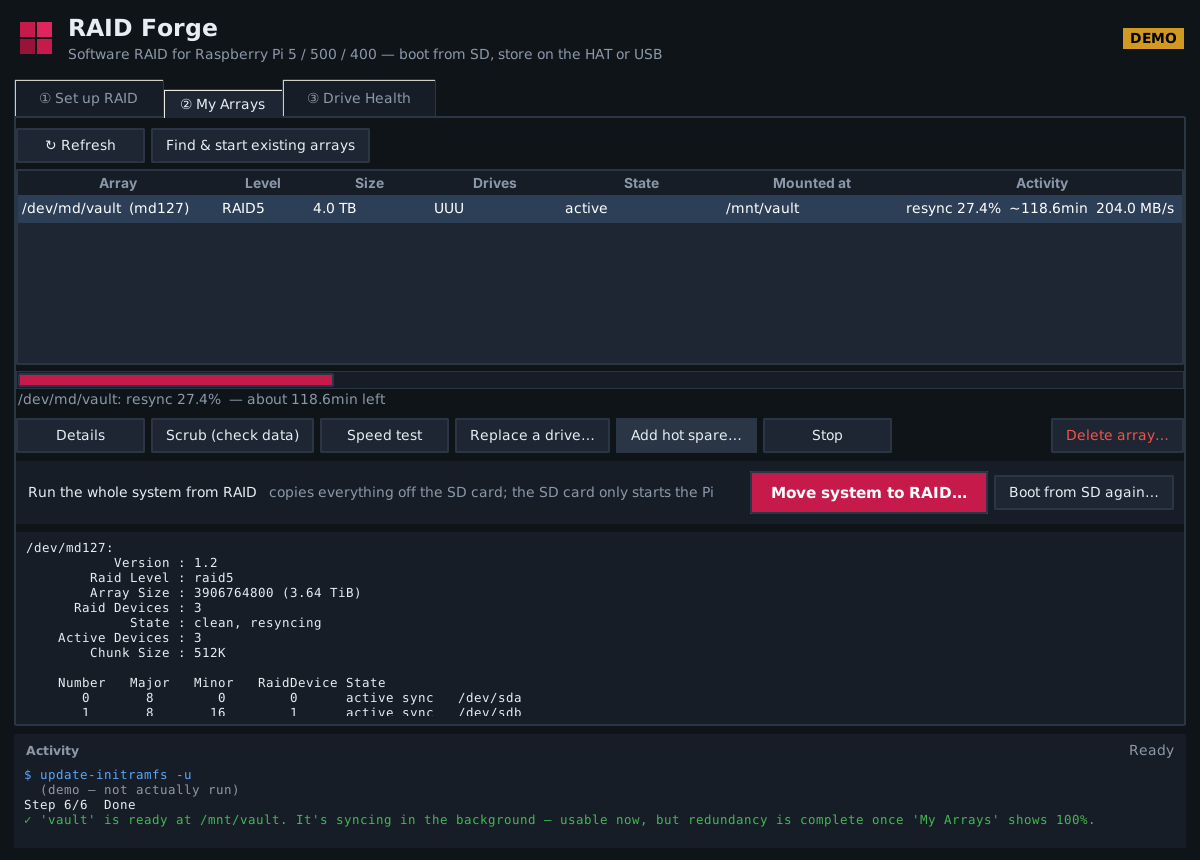
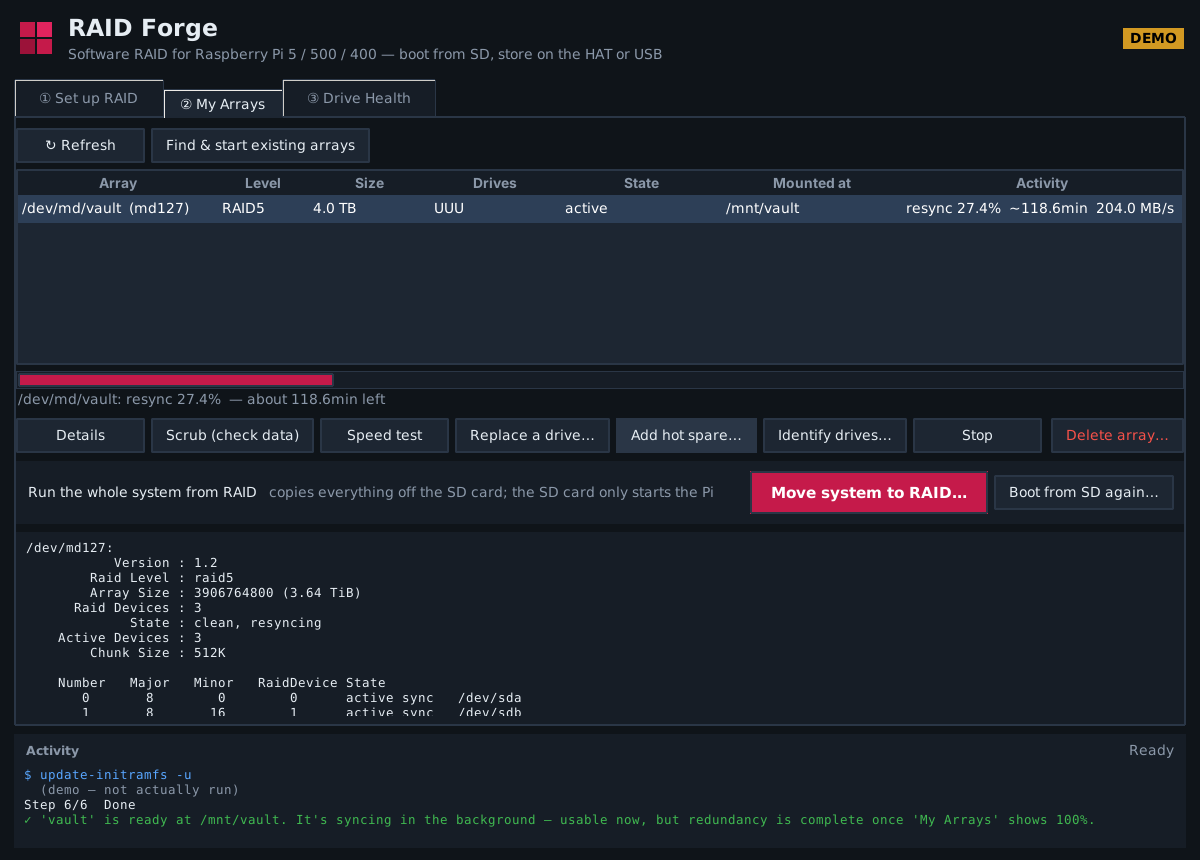
RAID Forge 1.3: Identify drives by blinking their activity light, with port + serial
- Read-burst blinker (O_DIRECT random reads, read-only), 1s/1s or 2s/2s when an array is busy
- Port descriptions: USB 3/2 bus/port/hub/dock slot, SATA port, NVMe PCIe address
- Blink buttons in Set up, My Arrays (one drive or 'find the failed drive'), Drive Health
- Replace a drive offers to blink the other drives first
- README + guide sections, screenshots

Claude-Session: https://claude.ai/code/session_013eymtRZWHTpyK22CNk1Fbr

Changed region(s): [[0.6475, 0.4837, 0.8942, 0.5442]]

diff --git a/raidforge.py b/raidforge.py
@@ -23,7 +23,7 @@ import tkinter as tk
 from tkinter import messagebox, simpledialog, ttk
 
 APP = "RAID Forge"
-VERSION = "1.2"
+VERSION = "1.3"
 DEMO = "--demo" in sys.argv or os.environ.get("RAIDFORGE_DEMO") == "1"
 USER = os.environ.get("SUDO_USER") or getpass.getuser()
 
@@ -104,6 +104,59 @@ def lockstep_warnings(arrays, wear):
                 out.append(f"{a['name']}: {d1} ({w1}%) and {d2} ({w2}%) are wearing in step. Consider replacing "
                            f"one early (My Arrays > Replace a drive) so they don't wear out together.")
     return out
+
+
+# Runs as admin for one "on" burst: keeps reading 1 MB at random spots (bypassing caches) until the time is up,
+# so the drive's activity light stays lit for the whole burst. Read-only.
+BLINK_READER = r'''
+import os, sys, time, random, mmap
+dev, secs, size = sys.argv[1], float(sys.argv[2]), int(sys.argv[3] or 0)
+B = 1 << 20
+try:
+    fd = os.open(dev, os.O_RDONLY | getattr(os, "O_DIRECT", 0))
+except OSError:
+    fd = os.open(dev, os.O_RDONLY)
+if size <= 0:
+    size = os.lseek(fd, 0, os.SEEK_END)
+blocks = max(size // B - 1, 1)
+buf = mmap.mmap(-1, B)
+end = time.monotonic() + secs
+while time.monotonic() < end:
+    try:
+        os.preadv(fd, [buf], random.randrange(blocks) * B)
+    except OSError:
+        time.sleep(0.01)
+os.close(fd)
+'''
+
+
+def describe_location(syspath, read_text):
+    """Turn /sys/block/<disk>'s real path into words: 'USB 3 (blue port) · bus 4, port 1 · hub port 2'."""
+    parts = []
+    usb = [s for s in syspath.split("/") if re.fullmatch(r"\d+-[\d.]+", s)]
+    if usb:
+        seg = usb[-1]
+        bus, port = seg.split("-", 1)
+        speed = read_text(f"/sys/bus/usb/devices/{seg}/speed", "").strip()
+        kind = ("USB 3 (blue port)" if speed.isdigit() and int(speed) >= 5000 else
+                "USB 2 (black port)" if speed in ("480", "12", "1.5") else "USB")
+        top, *hub = port.split(".")
+        parts += [kind, f"bus {bus}, port {top}"]
+        if hub:
+            parts.append(f"hub port {hub[-1]}")
+        lun = re.search(r"/\d+:\d+:\d+:(\d+)/block/", syspath)
+        if lun and int(lun.group(1)) > 0:
+            parts.append(f"dock slot {int(lun.group(1)) + 1}")
+        return " · ".join(parts)
+    m = re.search(r"/ata(\d+)/", syspath)
+    if m:
+        return f"SATA port {m.group(1)}"
+    m = re.search(r"/([0-9a-f]{4}:[0-9a-f]{2}:[0-9a-f]{2}\.\d)/nvme/", syspath)
+    if m:
+        return f"NVMe, PCIe address {m.group(1)[5:]}"
+    if "mmc" in syspath:
+        return "SD card slot"
+    return ""
 
 
 TRIM_OVERRIDE = "/etc/systemd/system/fstrim.timer.d/raidforge.conf"
@@ -424,6 +477,45 @@ class System:
             return "/mnt/vault"
         rc, out = self.run(["findmnt", "-no", "TARGET", "-S", dev], quiet=True)
         return out.strip().splitlines()[0] if out.strip() else ""
+
+    # ---- finding a physical drive
+    def location(self, name):
+        """Where a disk is plugged in, in plain words (USB port + speed, SATA port, PCIe slot)."""
+        if DEMO:
+            return {"sda": "USB 3 (blue port) · bus 2, port 1 · dock slot 1",
+                    "sdb": "USB 3 (blue port) · bus 2, port 1 · dock slot 2",
+                    "sdc": "USB 3 (blue port) · bus 4, port 1 · dock slot 1",
+                    "sdd": "USB 3 (blue port) · bus 4, port 1 · dock slot 2",
+                    "sde": "USB 2 (black port) · bus 1, port 2"}.get(name, "")
+        return describe_location(os.path.realpath(f"/sys/block/{name}"), self.read_text)
+
+    def can_blink(self):
+        return DEMO or os.geteuid() == 0 or self.priv_prefix()[:1] == ["sudo"]
+
+    def blink(self, disks, stop, on_s=1.0, off_s=1.0, on_phase=None):
+        """Read from each disk in an on/off rhythm so its activity light blinks. Read-only, safe on live arrays.
+        disks: [{"path":..., "size":...}]. stop: threading.Event. on_phase(True/False) is called each change."""
+        while not stop.is_set():
+            if on_phase:
+                on_phase(True)
+            procs = []
+            if not DEMO:
+                for d in disks:
+                    cmd = self.priv_prefix() + [sys.executable, "-c", BLINK_READER, d["path"], str(on_s),
+                                                str(int(d.get("size") or 0))]
+                    try:
+                        procs.append(subprocess.Popen(cmd, stdout=subprocess.DEVNULL, stderr=subprocess.DEVNULL))
+                    except OSError:
+                        pass
+            stop.wait(on_s)
+            for p in procs:
+                try:
+                    p.wait(timeout=2)
+                except subprocess.TimeoutExpired:
+                    p.kill()
+            if on_phase:
+                on_phase(False)
+            stop.wait(off_s)
 
 
 # ================================================================= GUI
@@ -778,6 +870,9 @@ class App(tk.Tk):
             if d.get("serial"):
                 sub += f"  ·  {d['serial']}"
             tk.Label(info, text=sub, bg=CARD, fg=MUTED, font=("DejaVu Sans", 8)).pack(anchor="w")
+            if d["tran"] != "mmc":
+                ttk.Button(row, text="Blink", width=6,
+                           command=lambda n=d["name"]: self.identify([n])).pack(side="right", padx=(0, 8))
             if busy:
                 tk.Label(row, text=d["busy"], bg=CARD, fg=WARN, font=("DejaVu Sans", 8)).pack(side="right", padx=8)
             self.disk_vars[d["path"]], self.spare_vars[d["path"]] = v, sv
@@ -1090,7 +1185,8 @@ class App(tk.Tk):
         acts.pack(fill="x", pady=8)
         for t, fn in (("Details", self.show_detail), ("Scrub (check data)", self.scrub),
                       ("Speed test", self.speed_test), ("Replace a drive…", self.replace_drive),
-                      ("Add hot spare…", self.add_spare), ("Stop", self.stop_array)):
+                      ("Add hot spare…", self.add_spare), ("Identify drives…", self.identify_member),
+                      ("Stop", self.stop_array)):
             ttk.Button(acts, text=t, command=fn).pack(side="left", padx=(0, 6))
         ttk.Button(acts, text="Delete array…", style="Danger.TButton", command=self.delete_array).pack(side="right")
 
@@ -1255,6 +1351,14 @@ class App(tk.Tk):
                                                "(Pick the failed one — it'll be marked failed and removed.)", outgoing)
         if not old:
             return
+        if messagebox.askyesno(APP, f"Want help finding {old} first?\n\nRAID Forge can blink the other drives in the "
+                                    "array. The one whose light stays dark is the one to pull."):
+            others = [disk_of(d) for d, s in a["devices"] if f"/dev/{d}" != old and s != "failed"]
+            w = self.identify(others, f"Find {old}", note=(
+                f"The other drives blink together in time with the dot. {old} is the one that stays dark. "
+                "Match its port and serial too. Press Stop when you've found it."), target=[os.path.basename(old)])
+            if isinstance(w, tk.Toplevel):
+                self.wait_window(w)
         new = self._pick_from("Replace drive", "Which new drive goes in?\n(It will be erased.)", self._free_disks())
         if not new:
             return
@@ -1341,6 +1445,121 @@ class App(tk.Tk):
                 S.run(["update-initramfs", "-u"], root=True, timeout=900)
             self.log(f"✓ {a['alias']} deleted; its drives are free again.", "good")
         self.work("deleting array", job)
+
+    # ============================================================ IDENTIFY (blink a drive's light)
+    def _disk_dicts(self, names):
+        info = {d["name"]: d for d in self.sys.disks()}
+        out = []
+        for n in names:
+            d = dict(info.get(n) or {"name": n, "path": f"/dev/{n}", "size": 0, "model": "", "serial": ""})
+            d["where"] = self.sys.location(n)
+            out.append(d)
+        return out
+
+    def identify(self, names, title="Identify drive", note=None, target=None):
+        """Blink the activity light of the given disks (by name) in a slow on/off rhythm."""
+        if not self.sys.can_blink():
+            return messagebox.showinfo(APP, "Blinking a drive needs admin rights. Restart RAID Forge and enter "
+                                            "your password when it asks.")
+        disks = self._disk_dicts(names)
+        busy = [a for a in self.arrays if a.get("op")]
+        on_s = off_s = 2.0 if busy else 1.0
+        stop = threading.Event()
+        left = {"s": 30}
+        win = tk.Toplevel(self, bg=PANEL)
+        win.title(title)
+        win.transient(self)
+        tk.Label(win, text=title, bg=PANEL, fg=FG, font=("DejaVu Sans", 14, "bold")).pack(anchor="w", padx=18, pady=(16, 2))
+        tk.Label(win, bg=PANEL, fg=MUTED, justify="left", wraplength=640, text=note or (
+            f"Look for the activity light that goes on for {on_s:.0f} s, then off for {off_s:.0f} s, in time with "
+            "the dot below. It only reads from the drive, so it's safe even while the array is in use.")
+                 ).pack(anchor="w", padx=18)
+        if busy:
+            tk.Label(win, bg=PANEL, fg=WARN, justify="left", wraplength=640, text=(
+                f"{busy[0]['alias']} is busy ({busy[0]['op']}), so every light is flickering. RAID Forge is using "
+                "longer 2-second bursts: look for the light that goes fully dark for 2 seconds at a time.")
+                     ).pack(anchor="w", padx=18, pady=(6, 0))
+        mid = tk.Frame(win, bg=PANEL)
+        mid.pack(fill="x", padx=18, pady=12)
+        dot = tk.Canvas(mid, width=64, height=64, bg=PANEL, highlightthickness=0)
+        dot.pack(side="left", padx=(0, 16))
+        lamp = dot.create_oval(8, 8, 56, 56, fill=LINE, outline="")
+        lst = tk.Frame(mid, bg=PANEL)
+        lst.pack(side="left", fill="x", expand=True)
+        for d in disks:
+            r = tk.Frame(lst, bg=CARD)
+            r.pack(fill="x", pady=2)
+            tk.Label(r, text=f"{d['path']}   {human(d['size']) if d['size'] else ''}", bg=CARD, fg=FG,
+                     font=("DejaVu Sans", 10, "bold")).pack(anchor="w", padx=10, pady=(4, 0))
+            sub = "  ·  ".join(x for x in (d.get("model"), f"serial {d['serial']}" if d.get("serial") else "",
+                                            d.get("where")) if x)
+            tk.Label(r, text=sub or "no details reported", bg=CARD, fg=MUTED, font=("DejaVu Sans", 9),
+                     wraplength=520, justify="left").pack(anchor="w", padx=10, pady=(0, 4))
+        for d in self._disk_dicts(target or []):
+            r = tk.Frame(win, bg=PANEL, highlightthickness=2, highlightbackground=WARN)
+            r.pack(fill="x", padx=18, pady=(0, 10))
+            tk.Label(r, text=f"Looking for {d['path']} (its light stays dark)", bg=PANEL, fg=WARN,
+                     font=("DejaVu Sans", 10, "bold")).pack(anchor="w", padx=10, pady=(4, 0))
+            sub = "  ·  ".join(x for x in (d.get("model"), f"serial {d['serial']}" if d.get("serial") else "",
+                                            d.get("where")) if x)
+            tk.Label(r, text=sub or "It isn't answering, so check the drives not listed above",
+                     bg=PANEL, fg=MUTED, font=("DejaVu Sans", 9)).pack(anchor="w", padx=10, pady=(0, 4))
+        status = tk.Label(win, text="", bg=PANEL, fg=MUTED)
+        status.pack(anchor="w", padx=18)
+        bf = tk.Frame(win, bg=PANEL)
+        bf.pack(fill="x", padx=18, pady=14)
+        more = ttk.Button(bf, text="Keep blinking (+30 s)", command=lambda: left.update(s=left["s"] + 30))
+        more.pack(side="left")
+
+        def close():
+            stop.set()
+            win.destroy()
+        ttk.Button(bf, text="Stop", style="Accent.TButton", command=close).pack(side="right")
+        win.protocol("WM_DELETE_WINDOW", close)
+
+        def phase(on):
+            self.ui(lambda: win.winfo_exists() and dot.itemconfigure(lamp, fill=ACCENT if on else LINE))
+
+        def tick():
+            if not win.winfo_exists() or stop.is_set():
+                return
+            left["s"] -= 1
+            if left["s"] <= 0:
+                return close()
+            status.configure(text=f"Blinking… stops in {left['s']} s")
+            win.after(1000, tick)
+        names_txt = ", ".join(d["path"] for d in disks)
+        self.log(f"Blinking {names_txt} (reads only).", "info")
+        threading.Thread(target=self.sys.blink, args=(disks, stop, on_s, off_s, phase), daemon=True).start()
+        tick()
+        return win
+
+    def identify_member(self):
+        """My Arrays: blink one member, or all the healthy ones to find a dead/missing drive."""
+        a = self.current_array()
+        if not a:
+            return
+        members = [(disk_of(d), s) for d, s in a["devices"]]
+        healthy = [n for n, s in members if s != "failed"]
+        failed = [n for n, s in members if s == "failed"]
+        opts = [(f"one:{n}", f"/dev/{n}  ({s})") for n, s in members]
+        opts.append(("healthy", "Blink all the healthy drives: the one that stays dark is the failed or missing one"))
+        pick = self._pick_from("Identify drives", f"Which drive in {a['alias']} do you want to find?", opts)
+        if not pick:
+            return
+        if pick == "healthy":
+            self.identify(healthy, "Find the failed drive", note=(
+                "Every healthy drive in the array blinks together in time with the dot. The failed or missing "
+                "drive is the one whose light stays dark (or doesn't match). Check its port and serial below "
+                "against the others."), target=failed)
+        else:
+            self.identify([pick[4:]])
+
+    def identify_health_row(self):
+        sel = self.htree.selection()
+        if not sel:
+            return messagebox.showinfo(APP, "Click a drive in the list first (run Check all drives if it's empty).")
+        self.identify([os.path.basename(self.htree.item(sel[0], "values")[0])])
 
     # ============================================================ MOVE SYSTEM TO RAID
     def _migration_checks(self, a):
@@ -1722,6 +1941,7 @@ class App(tk.Tk):
         top = ttk.Frame(root, style="Bg.TFrame")
         top.pack(fill="x", pady=(10, 6))
         ttk.Button(top, text="Check all drives (SMART)", command=self.check_health).pack(side="left")
+        ttk.Button(top, text="Blink selected drive", command=self.identify_health_row).pack(side="left", padx=(6, 0))
         ttk.Label(top, text="Health, temperature and SSD wear. Some USB enclosures don't pass this through.",
                   foreground=MUTED).pack(side="left", padx=10)
 
@@ -1746,7 +1966,7 @@ class App(tk.Tk):
         self.wear_msg = tk.Label(root, text="", bg=BG, fg=WARN, justify="left", anchor="w", wraplength=1100)
         self.wear_msg.pack(side="bottom", fill="x", pady=(6, 0))
         cols = ("drive", "model", "health", "wear", "temp", "hours", "notes")
-        self.htree = ttk.Treeview(root, columns=cols, show="headings", selectmode="none")
+        self.htree = ttk.Treeview(root, columns=cols, show="headings", selectmode="browse")
         for c, t, w in zip(cols, ("Drive", "Model", "Health", "SSD wear", "Temp", "Power-on hours", "Notes"),
                            (110, 220, 90, 150, 70, 110, 330)):
             self.htree.heading(c, text=t)

diff --git a/SPEED-GUIDE.md b/SPEED-GUIDE.md
@@ -84,6 +84,20 @@ Drive Health tab has the controls:
 - After **Move system to RAID**, the SD card is only written when a kernel update lands in the boot partition.
   SD cards have the weakest wear levelling of all, so this is the biggest win for reliability.
 
+## Telling identical drives apart
+
+Most USB enclosures and docks wire their activity light to the enclosure's own chip, so software can't switch it on
+or off directly. (`ledctl`-style "locate" lights only exist on server backplanes.) RAID Forge makes the light blink
+**by reading from that one drive** in a rhythm: about 1 second of steady reads, then 1 second idle. The reads skip the
+cache and only read, so it's safe on a running array.
+- On a busy array (resync, big copies) every light flickers, so RAID Forge switches to 2-second bursts. Look for the
+  light that goes **fully dark** for 2 seconds at a time.
+- A failed drive often doesn't answer at all, so it can't blink. **Find the failed drive** blinks the healthy ones
+  instead, and the dead one is the light that stays dark.
+- Every drive also shows its **port** (USB 3 blue / USB 2 black, bus and port, hub port, dock slot; SATA port; NVMe
+  PCIe address) and **serial number**. Write the serial on a sticker on each enclosure when you set the array up.
+- Some enclosures only have a power light. Then the port and serial are how you find it.
+
 ## SunFounder Pironman 5-MAX (dual NVMe case)
 
 - 2 × M.2 M-key slots (2230–2280) behind an **ASM1182e Gen 2 PCIe switch**, plus a micro SD slot

diff --git a/README.md b/README.md
@@ -48,6 +48,16 @@ with warnings at 60% / 80% and a flag for mirror pairs wearing in step. Its **TR
 
 ![Drive Health: SSD wear and TRIM](docs/drive-health.png)
 
+**Finding a drive (Identify / Blink)**: with a row of identical USB drives, RAID Forge can blink one drive's
+activity light. It reads from just that drive in a slow on/off rhythm, read-only and safe on a live array, and shows
+which **USB port** (USB 3 or 2, hub port, dock slot), **SATA port** or **NVMe slot** it's on, plus its **serial number**.
+- **Blink** button on every drive (Set up RAID), **Identify drives…** (My Arrays), **Blink selected drive** (Drive Health)
+- **Find the failed drive**: blinks all the healthy drives together, so the dead one is the light that stays dark
+- **Replace a drive…** offers to do that first, so you pull the right one
+- If an array is busy (resync), it uses longer 2-second bursts that stand out from normal flicker
+
+![Find the failed drive](docs/identify.png)
+
 ## Hardware notes
 | Setup | Notes |
 |---|---|
